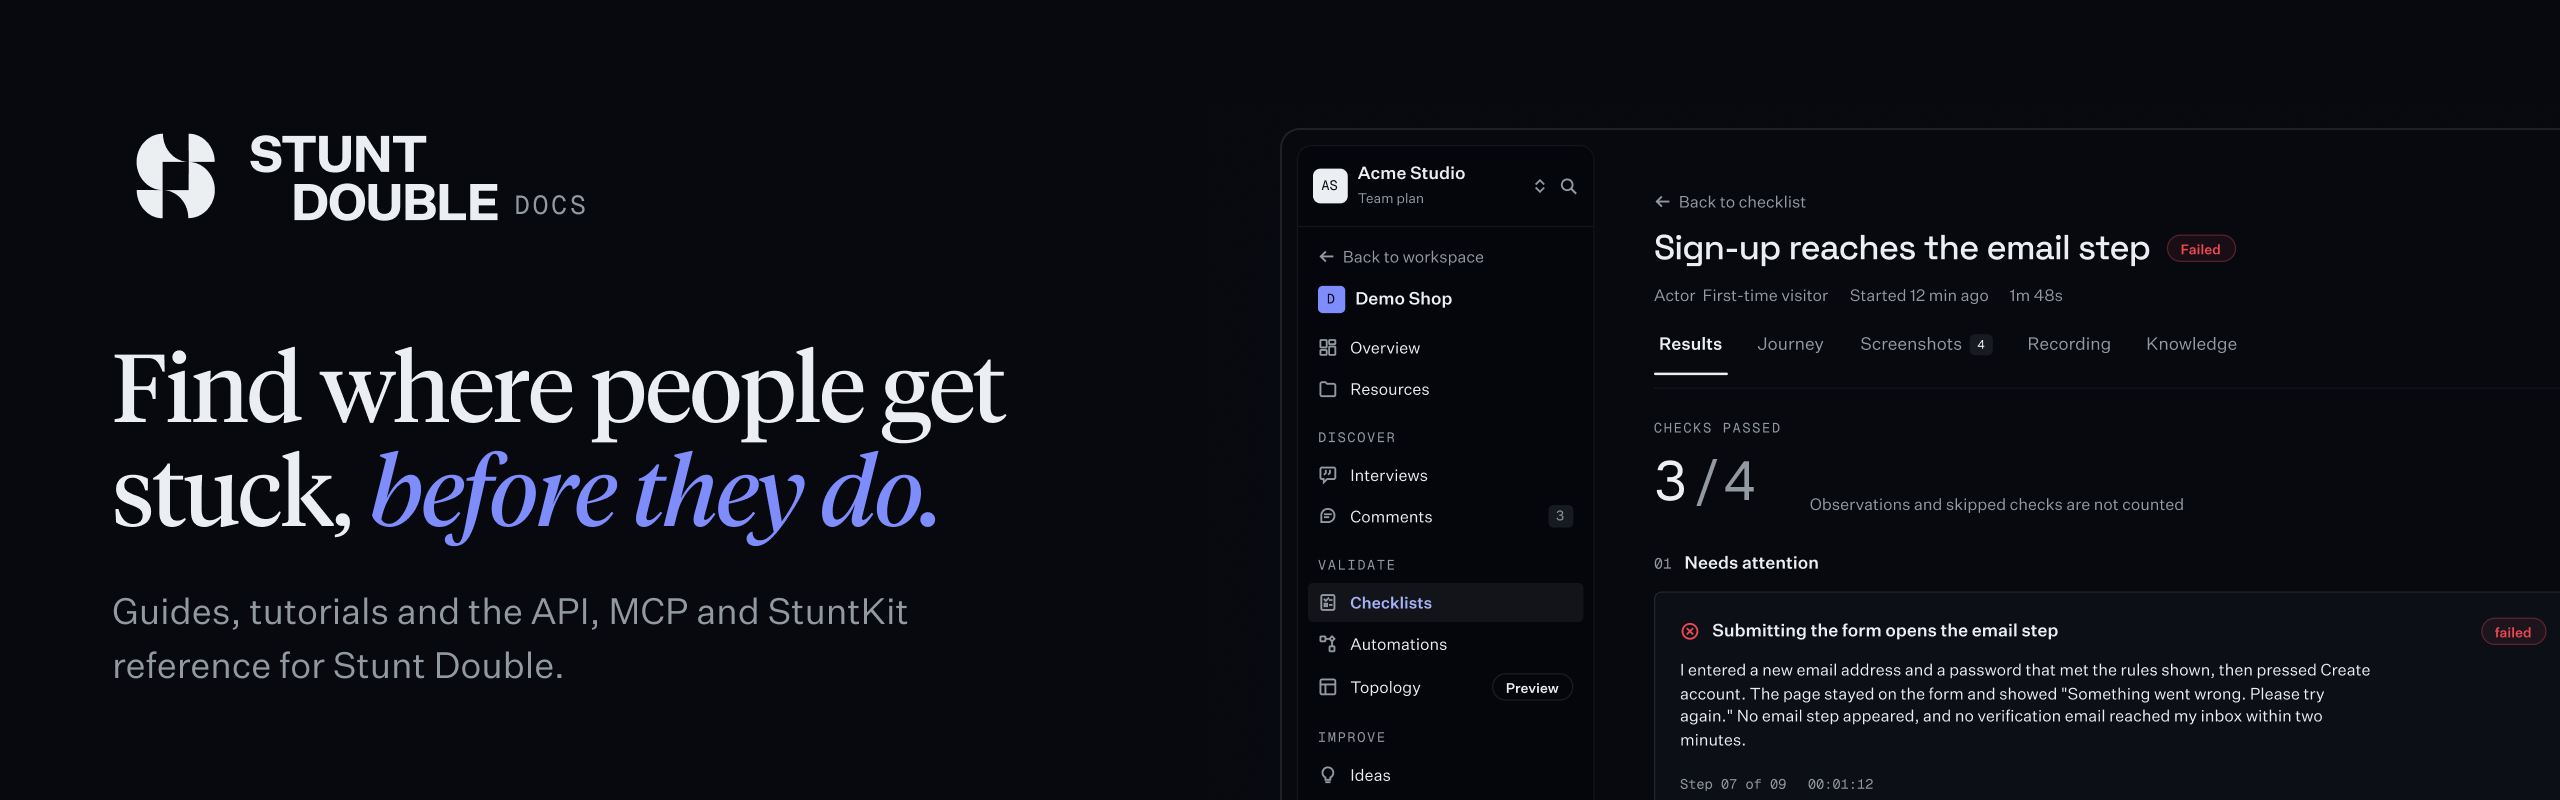
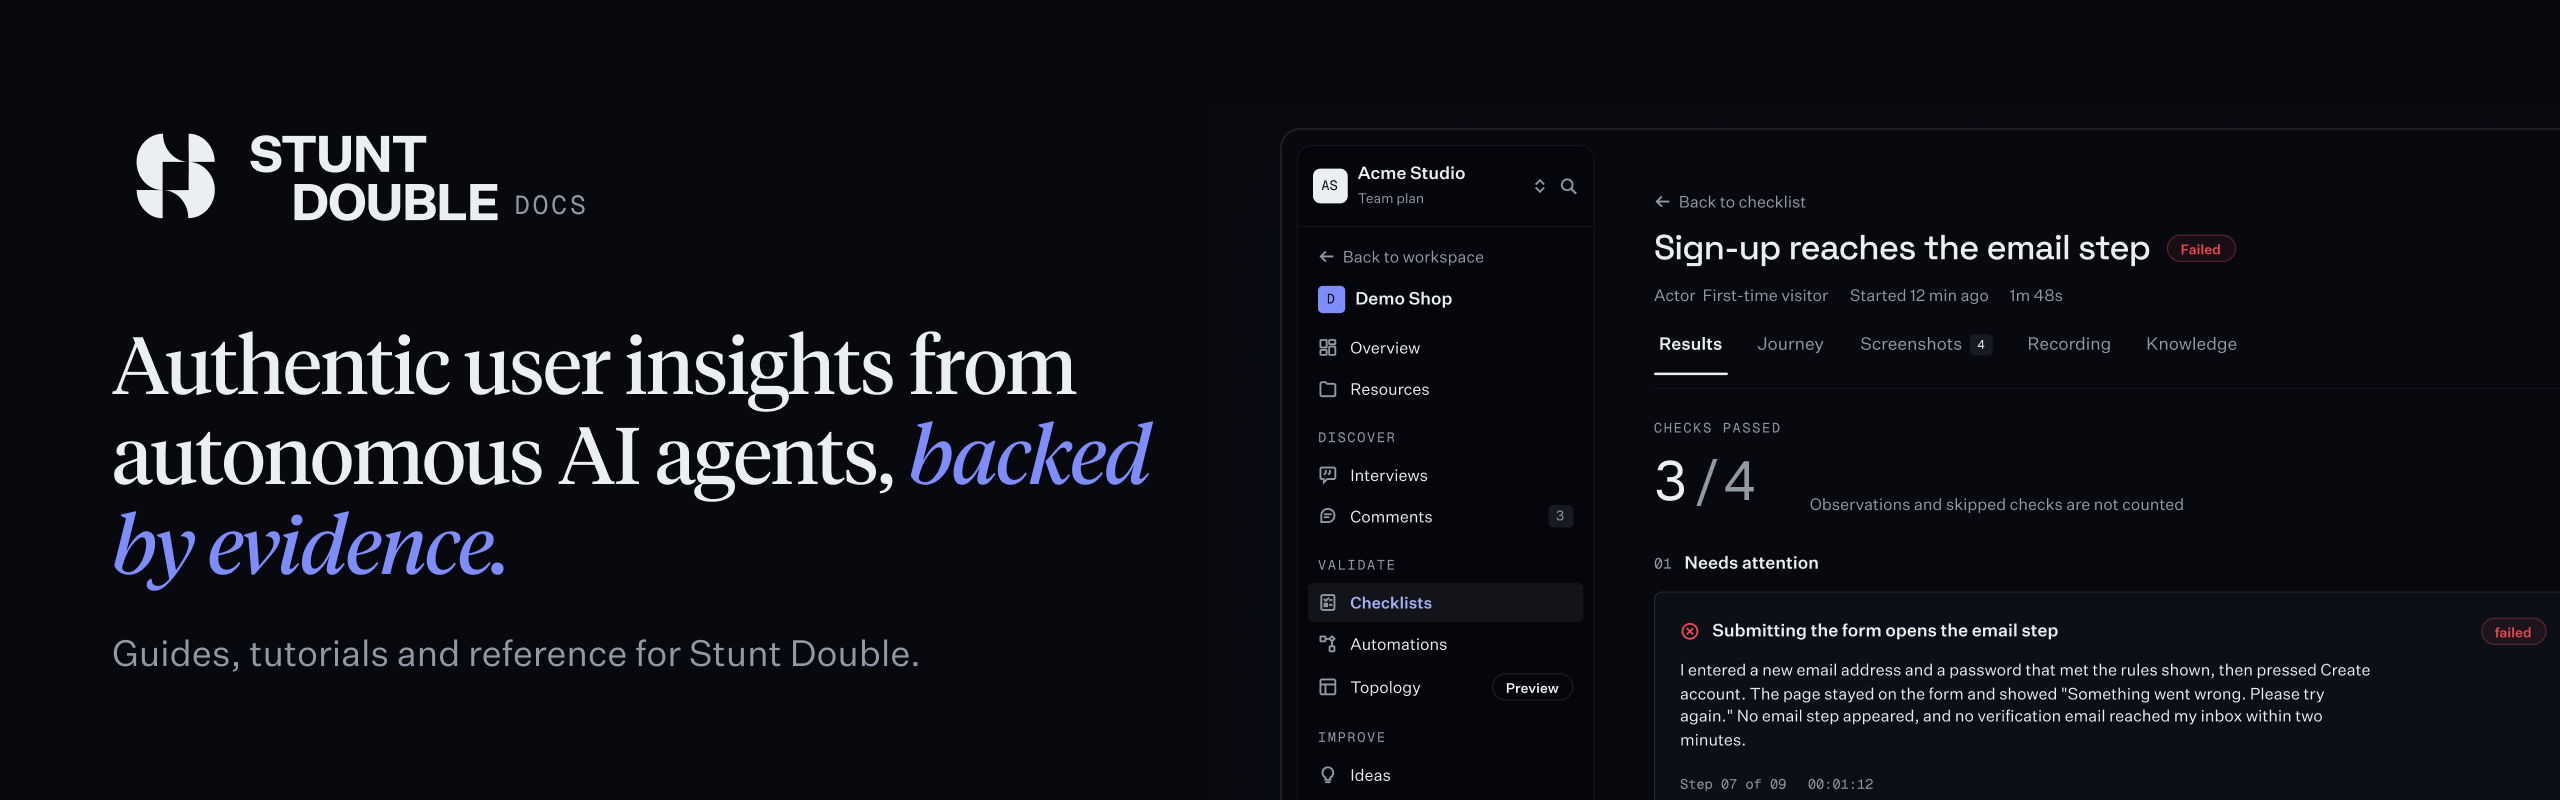
Describe Stunt Double with the brand short description
Replace the "stuck" line in the README header image, the README intro, the
docs home page and its meta description with the brand description:
authentic user insights from autonomous AI agents, backed by evidence.

Changed region(s): [[0.0312, 0.4062, 0.4688, 0.7188], [0.0312, 0.75, 0.375, 0.8438]]

diff --git a/README.md b/README.md
@@ -1,6 +1,6 @@
 <picture>
   <source media="(prefers-color-scheme: dark)" srcset=".github/readme/header-dark.png">
-  <img alt="Stunt Double Docs: find where people get stuck, before they do. Beside it, a checklist run with a failed check and its evidence." src=".github/readme/header-light.png" width="100%">
+  <img alt="Stunt Double Docs: authentic user insights from autonomous AI agents, backed by evidence. Beside it, a checklist run with a failed check and its evidence." src=".github/readme/header-light.png" width="100%">
 </picture>
 
 <p>
@@ -14,7 +14,9 @@
 
 # Stunt Double docs
 
-The source for [docs.stuntdouble.io](https://docs.stuntdouble.io): guides, tutorials, concepts, and the API, MCP and StuntKit reference for [Stunt Double](https://stuntdouble.io).
+[Stunt Double](https://stuntdouble.io): authentic user insights from autonomous AI agents, backed by evidence.
+
+This is the source for [docs.stuntdouble.io](https://docs.stuntdouble.io): guides, tutorials, concepts, and the API, MCP and StuntKit reference.
 
 ## Run it locally
 
